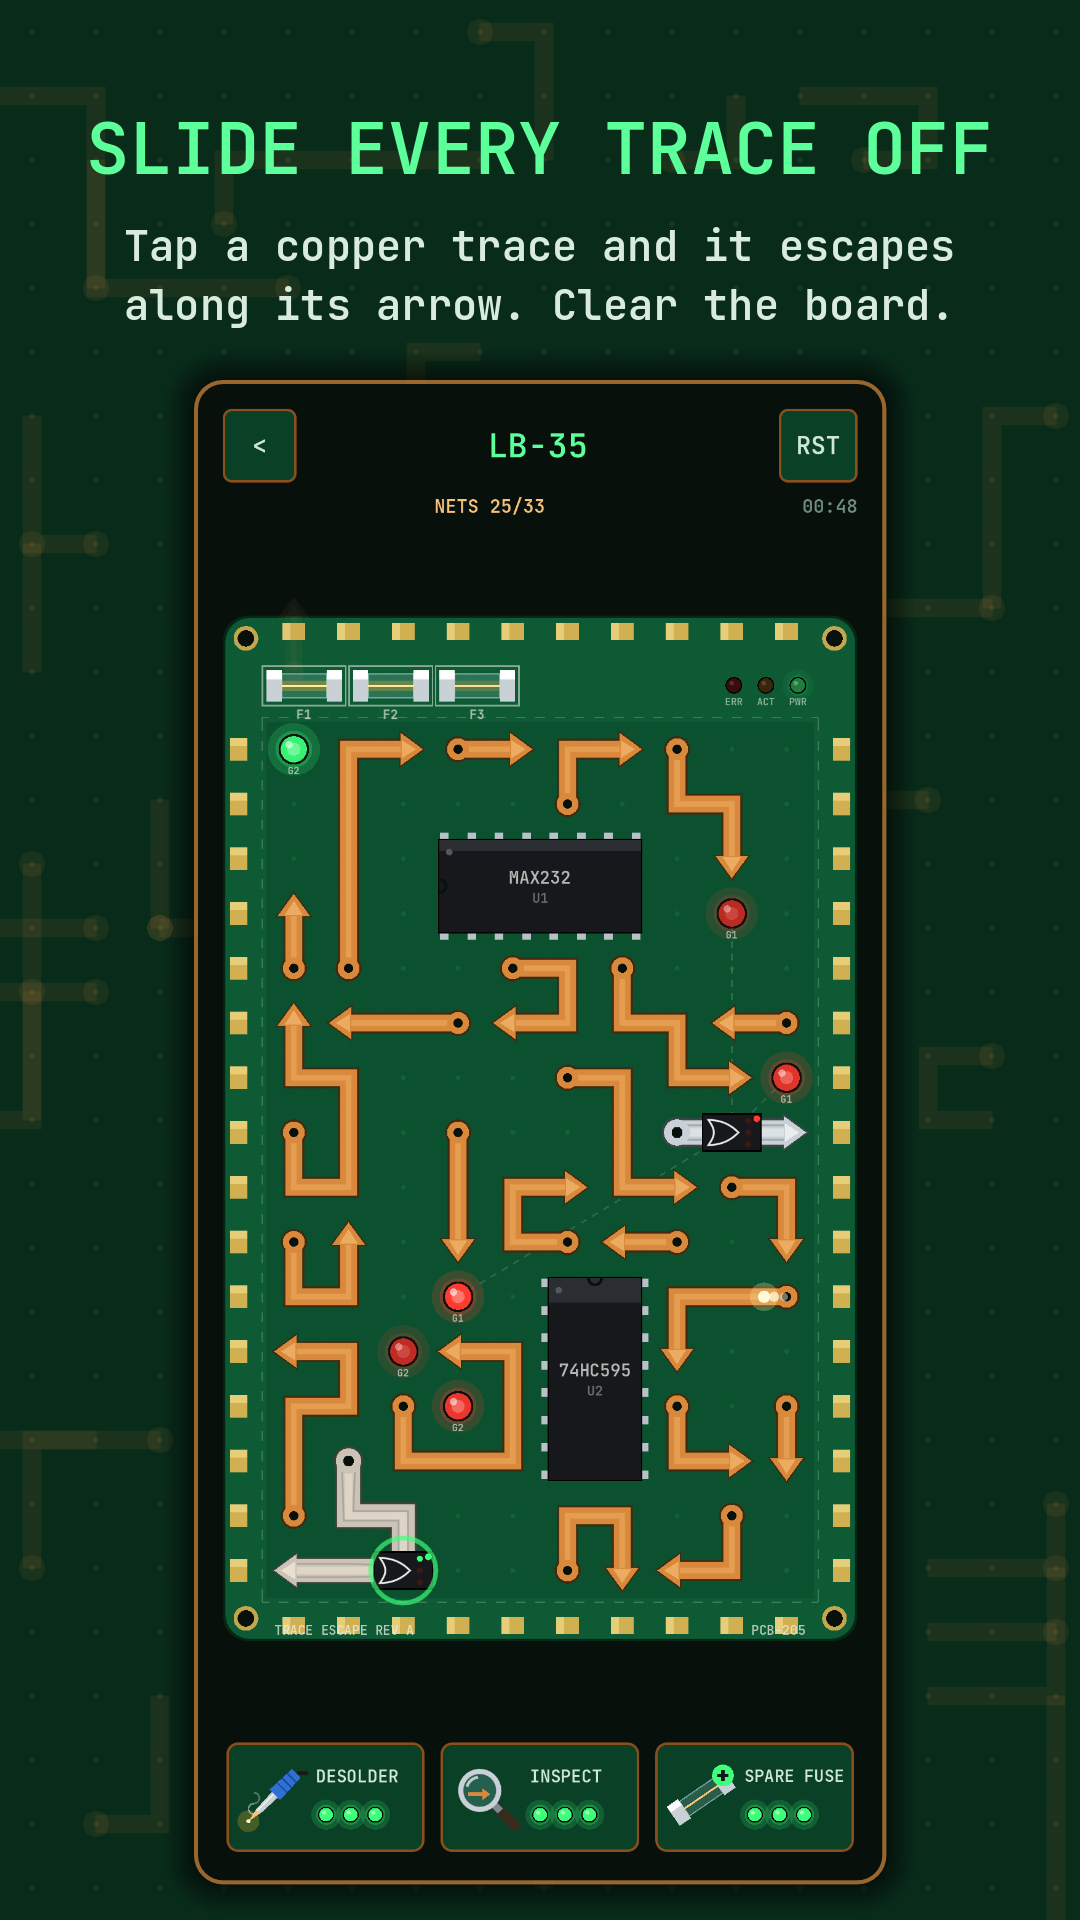
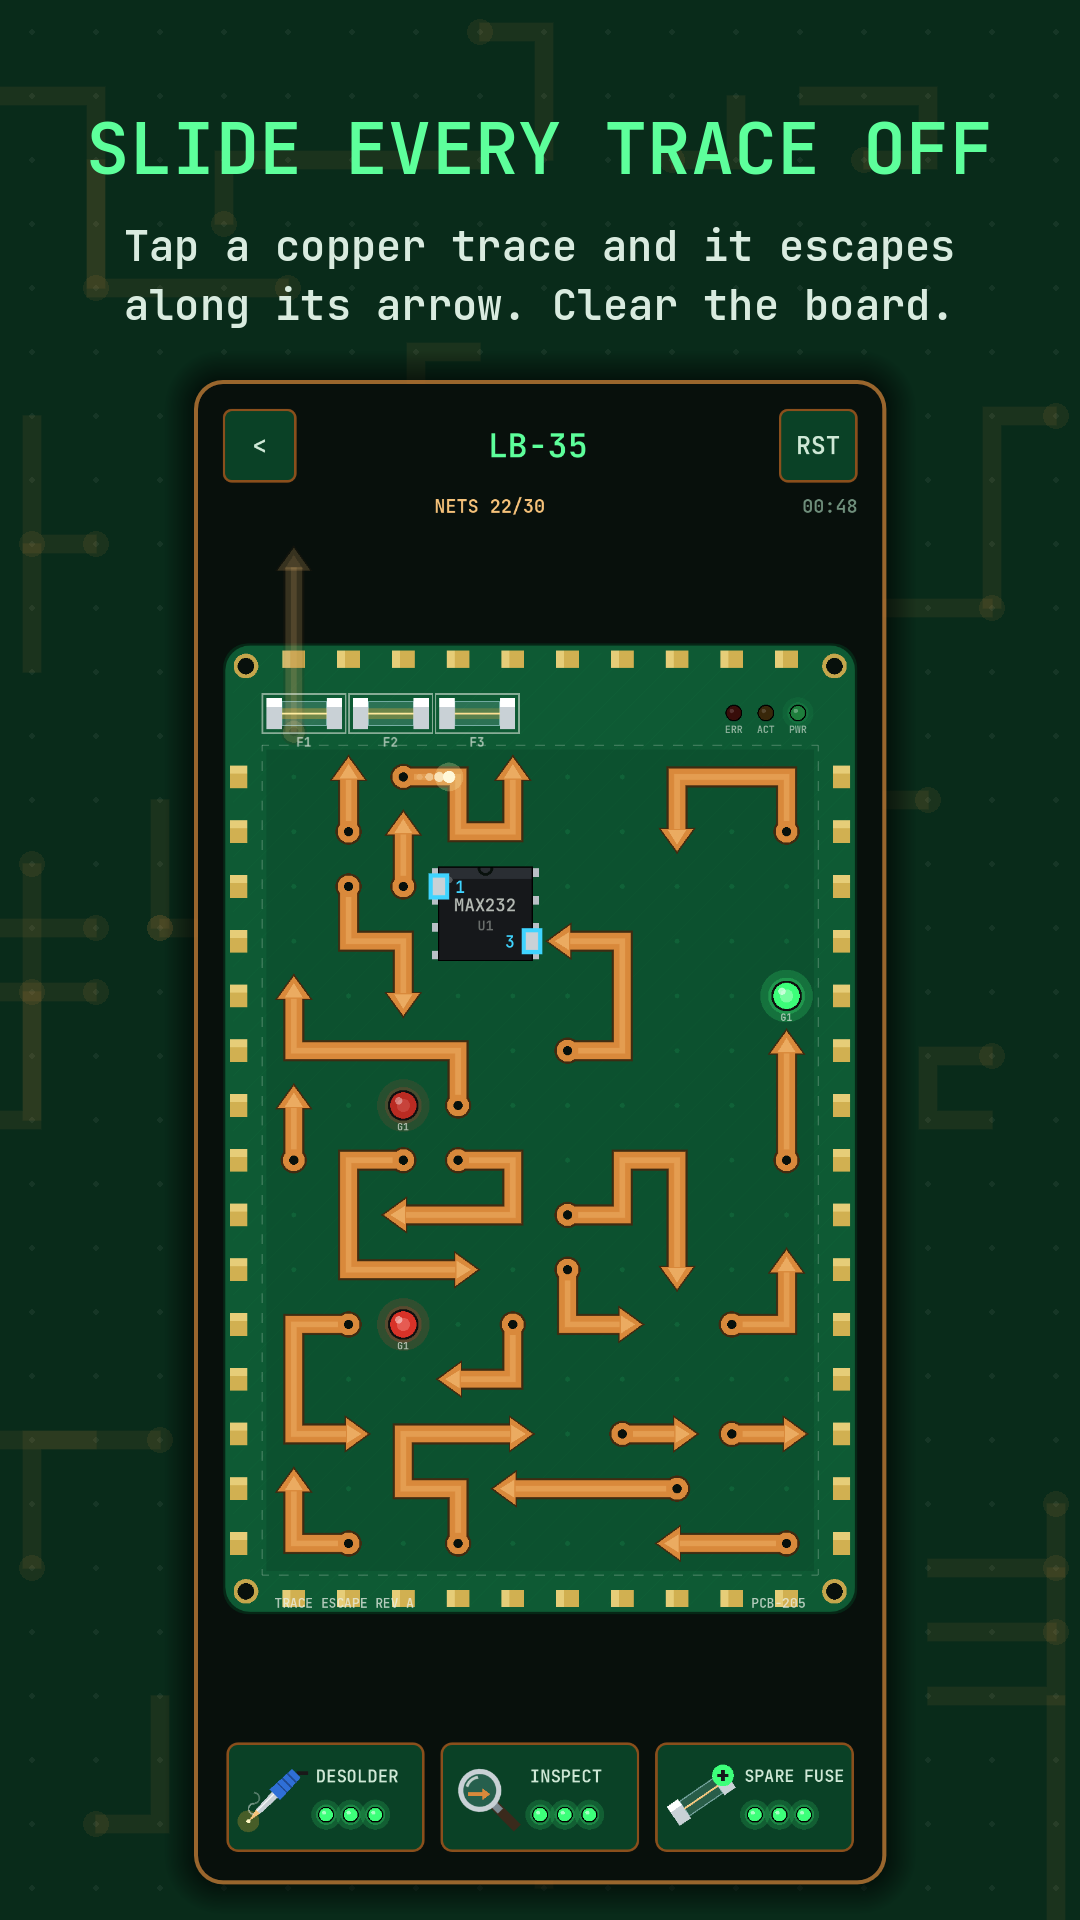
Trace Escape: ICs reroute traces through pin pairs; new screenshots
The game page describes the 1.3.0 ICs (into one colored pin, out of its
partner) and shows the store screenshots from the regenerated boards.

Changed region(s): [[0.2139, 0.2812, 0.7944, 0.875]]

diff --git a/traceescape/index.html b/traceescape/index.html
@@ -4,7 +4,7 @@
 <meta charset="utf-8">
 <meta name="viewport" content="width=device-width, initial-scale=1">
 <title>Trace Escape</title>
-<meta name="description" content="A circuit board puzzle: tap copper traces to slide them off the board, around ICs, diodes and gate-locked power rails.">
+<meta name="description" content="A circuit board puzzle: tap copper traces to slide them off the board, through IC pin pairs, past diodes and gate-locked power rails.">
 <link rel="icon" href="images/app_icon.png">
 <link rel="stylesheet" href="../style.css">
 <style>
@@ -62,7 +62,7 @@ the whole board to pass QC.</p>
     <li>If anything is in its path, it <strong>shorts</strong> and you blow a fuse. You have three fuses per board.</li>
     <li>Plan ahead: clearing one trace opens the way for the next.</li>
   </ul>
-  <p>New components arrive as you go. <strong>ICs</strong> never move and block everything.
+  <p>New components arrive as you go. <strong>ICs</strong> block traces, except at their colored pins: slide into one pin and the trace comes out of its partner.
   <strong>Logic gates</strong> lock silver power rails until their pin LEDs light up.
   <strong>Capacitors</strong> charge as traces leave the board. <strong>Diodes</strong> only conduct
   one way, until a trace overloads them.</p>
